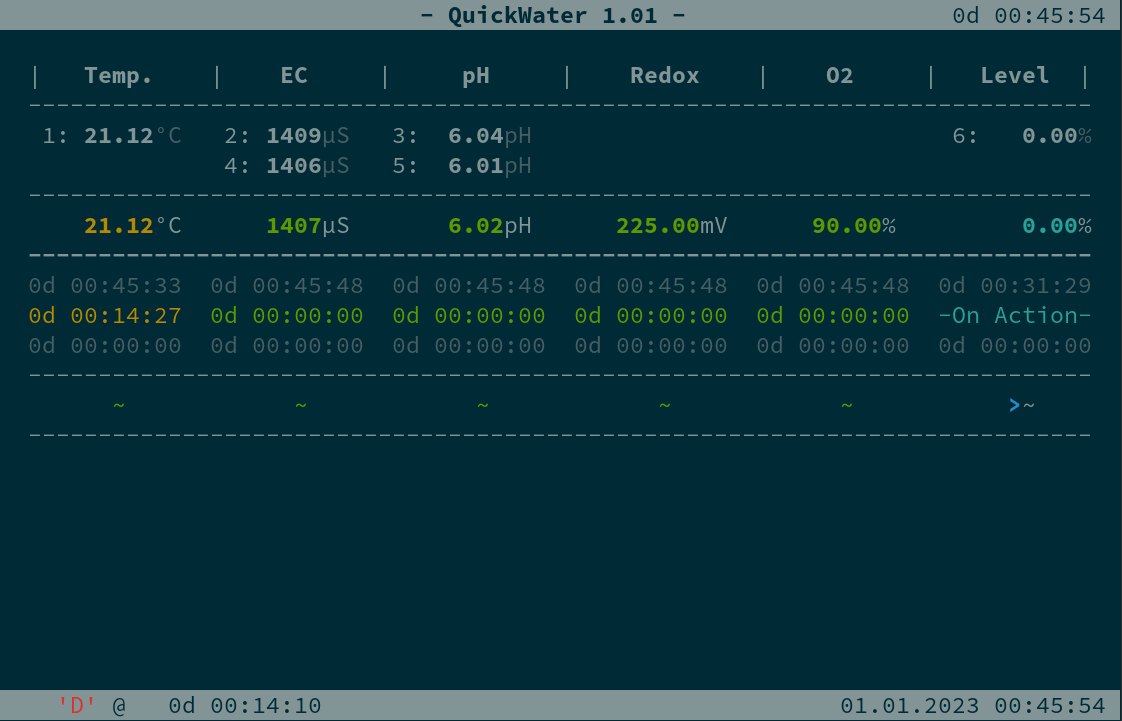
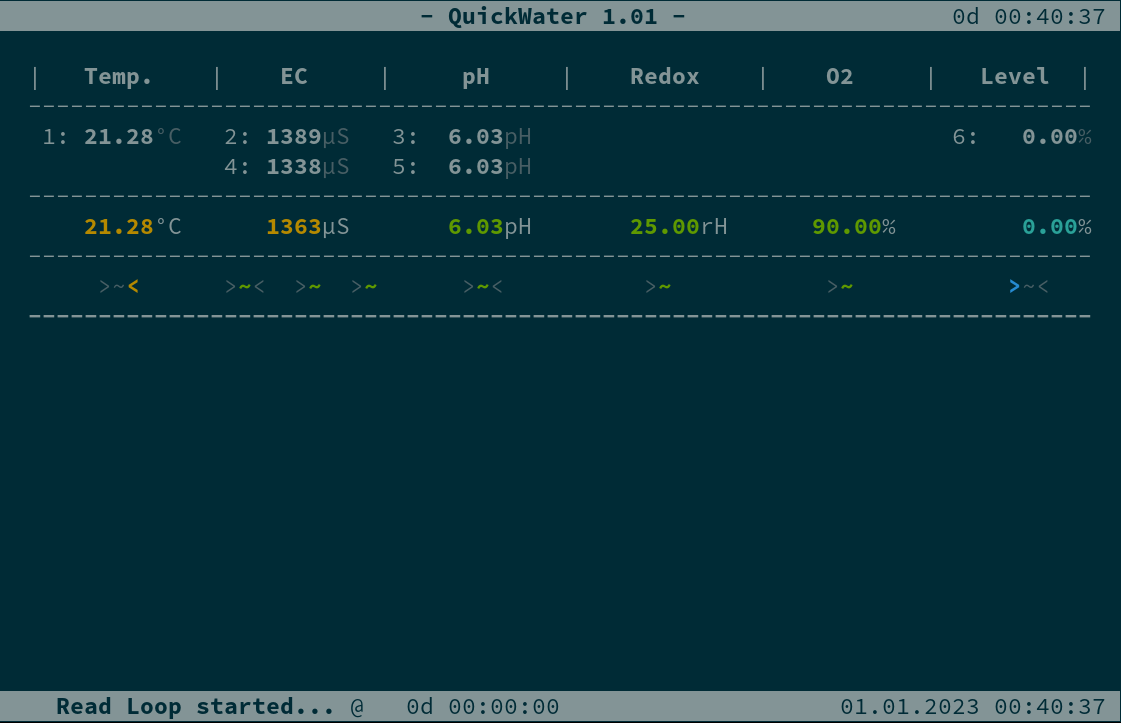
update readme & screenshot

diff --git a/README.md b/README.md
@@ -35,8 +35,8 @@ All three together are the base to have a very solid control over your grow. The
 <br>
 
 The **loop screen** during runtime. Visualization of all probes and their averaged value.  
-The states "TooLow", "Low", "OK", "High", "TooHigh" get visualized in different colors. You're absolutely free to define of what "(Too)High" and "(Too)Low" is, so that it will fit best to your needs. In the last line you see, that the level action-port for "(Too)Low" is active, cause the timeout for "level" expired and a action-time is set for that case (see later screenshots).  
-*The three lines with times are an debug-feature and will get removed soon from this screen.*
+The states "TooLow", "Low", "OK", "High", "TooHigh" get visualized in different colors. You're absolutely free to define of what "(Too)High" and "(Too)Low" is, so that it will fit best to your needs. In the last line you see, that the level action-port for "(Too)Low" and the temperature action-port for "(Too)High" is active, cause their timeout for (too)low/(too)high expired and a action-time is set for that case (see later screenshots).  
+*~~The three lines with times are an debug-feature and will get removed soon from this screen.~~*
 ![Loop Screen](/images/Auswahl_001.png)
 
 <br>
@@ -94,6 +94,6 @@ The **Manual Run Screen** is visualizing the process of running a manual setting
 
 <br>
 
-I can't declare this project actually as that useable like I do for <a href="https://github.com/PitWD/QuickTimer"> CannaClocky</a>. The communication-part with the Atlas-Scientific modules and visualization of the read values is 100% usable - some prototypes are working perfect since nearly three months. Just the actions are not that hard tested - but first real running prototypes exist and working pretty fine, too.  
+I can't declare this project actually as that useable like I do for <a href="https://github.com/PitWD/QuickTimer"> CannaClocky</a>. The communication-part with the Atlas-Scientific modules and visualization of the read values is 100% usable - some prototypes are working perfect since nearly three months. Just the actions got ~~not that hard tested~~ actually an massive update - but first real running prototypes exist and working pretty fine, too.  
 Some planned extensions will break the actual structure of the internal eeprom - this will break the user made settings. There is actually no safe "fuse" to prevent that re-flashed µC's with a then broken eeprom will boot in a usable state.
 
